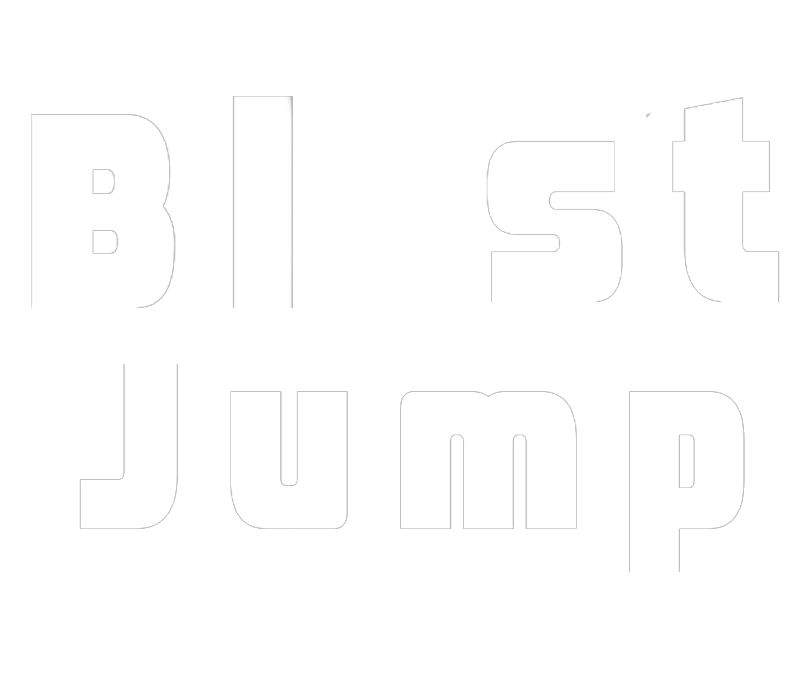
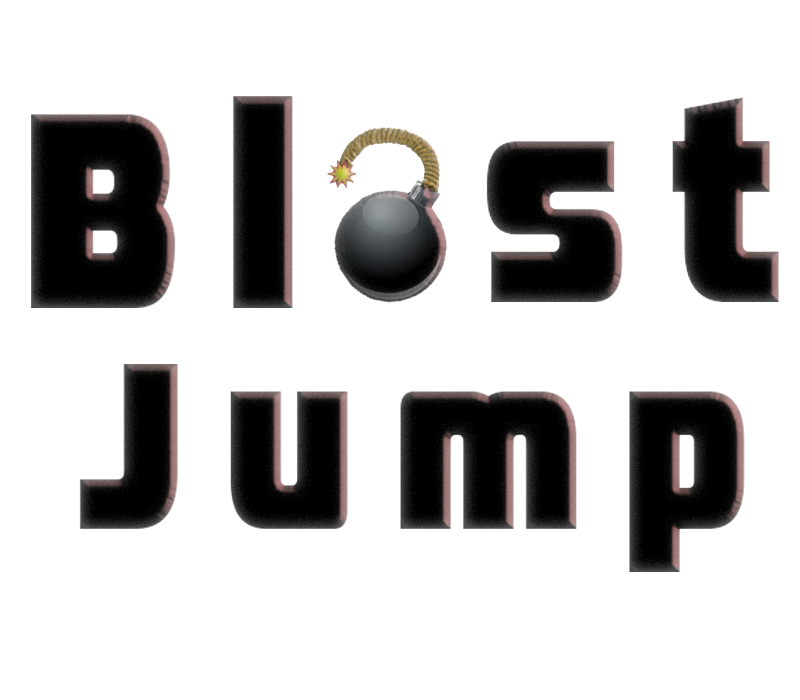
タイトルの変更

diff --git a/GameSources/TitleStage.cpp b/GameSources/TitleStage.cpp
@@ -24,10 +24,9 @@ namespace basecross{
 		try {
 			CreateViewLight();
 			CreateResource();
-			auto sprite = AddGameObject<BCSprite>(L"BACKGROUND", Vec3(0, 0, 0), Vec2(1280, 800),Vec2(2,2), true);
+			auto sprite = AddGameObject<BCSprite>(L"BACKGROUND", Vec3(0, 0, 0), Vec2(1280, 800), true);
 			sprite = AddGameObject<BCSprite>(L"TITLE_UI", Vec3(0, 100, 0), Vec2(700, 700),true);
-			sprite->SetDiffuse(Col4(0, 0, 0, 1));
-			AddGameObject<BCSprite>(L"TITLE_BOMB_UI", Vec3(0, 150, 0), Vec2(500, 500), true);
+			//AddGameObject<BCSprite>(L"TITLE_BOMB_UI", Vec3(0, 150, 0), Vec2(500, 500), true);
 			sprite = AddGameObject<BCSprite>(L"PUSH_A_UI", Vec3(0,-300,0), Vec2(300, 120),true);
 			sprite->AddComponent<SpriteFlash>(1.0f);
 			sprite->SetDiffuse(Col4(0, 0, 0, 1));
